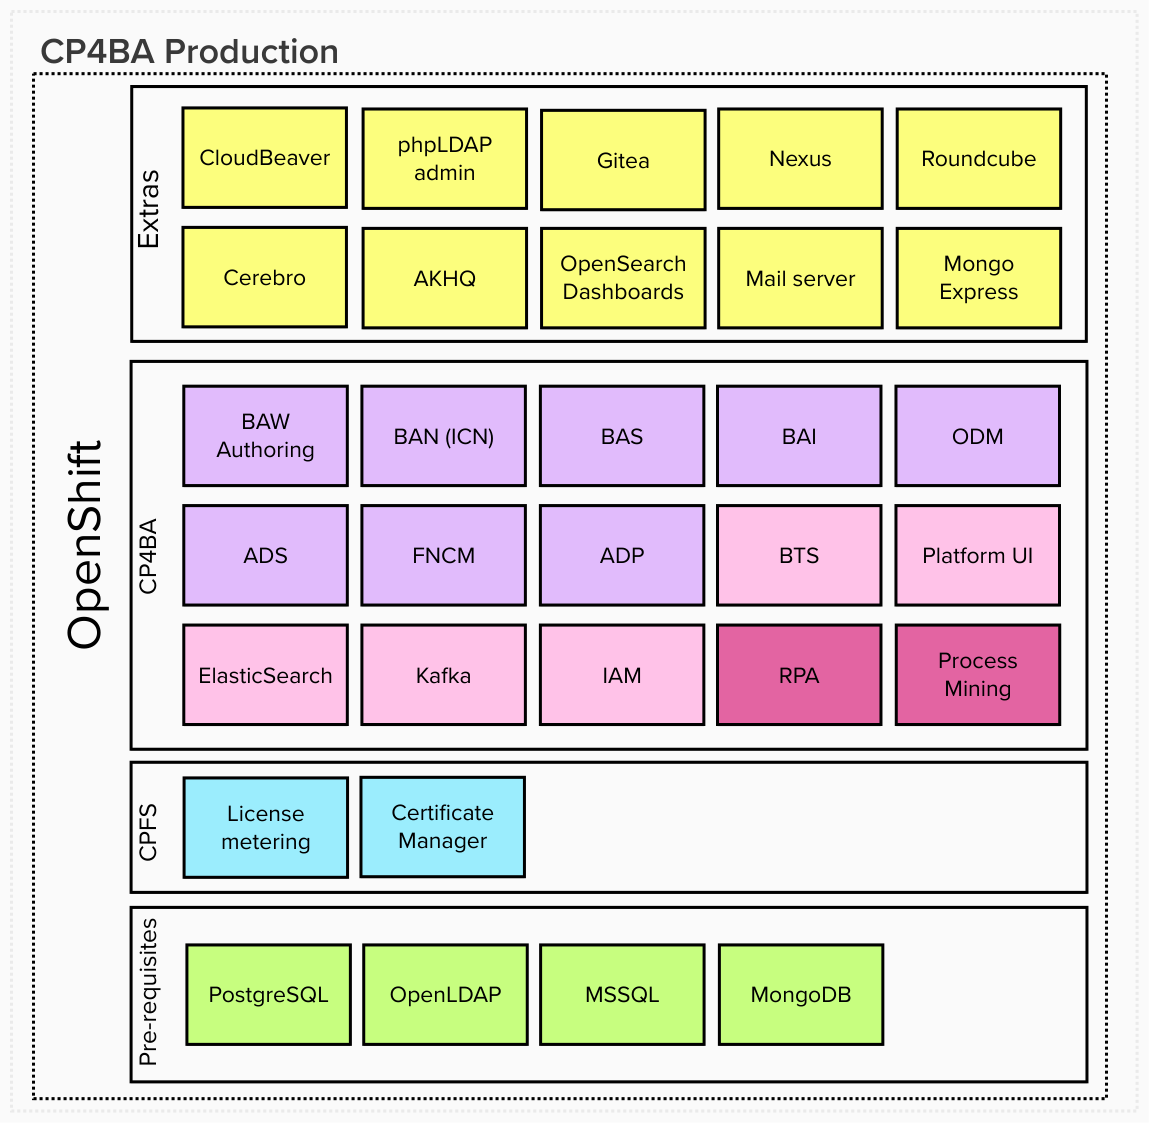
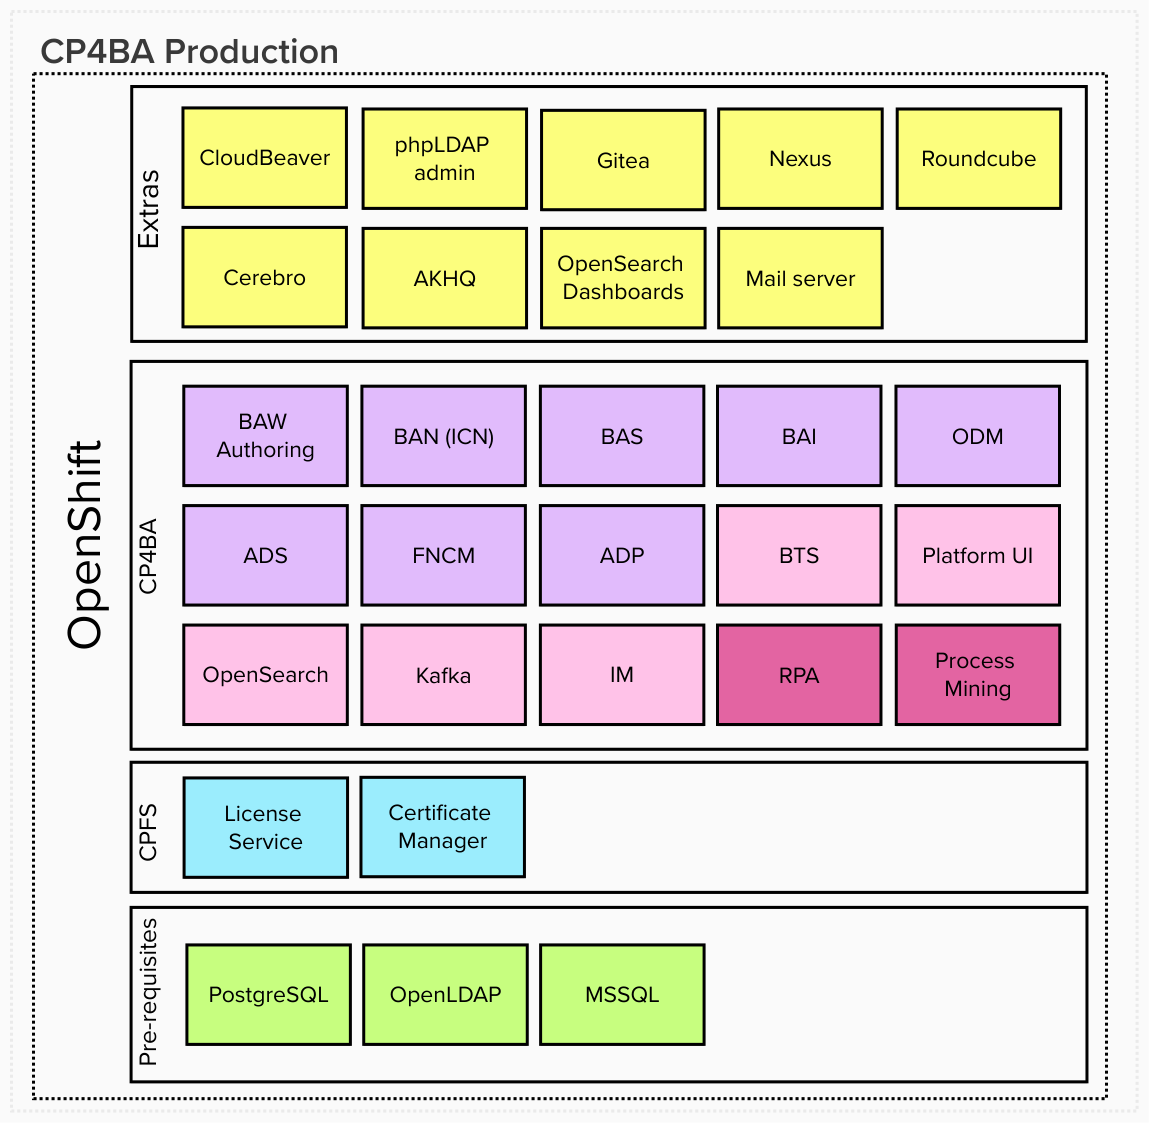
Update component diagram

diff --git a/docs/src/30-reference/configuration/cp4ba.md b/docs/src/30-reference/configuration/cp4ba.md
@@ -120,7 +120,7 @@ Contains services which are reused by Cloud Paks.
 
 More info available in official docs at https://www.ibm.com/docs/en/cpfs.
 
-- License metering - Tracks license usage.
+- License service - Tracks license usage.
 - Certificate Manager - Provides certificate handling.
 
 ### Pre-requisites section<!-- omit in toc -->
@@ -146,7 +146,7 @@ For your convenience the following post-deployment setup tasks have been automat
 - Zen - Users and Groups added.
 - Zen - Administrative group is given all available privileges from all pillars.
 - Zen - Regular groups are given developer privileges from all pillars.
-- Zen - Service account created in CPFS IAM and Zen and Zen API key is generated for convenient and stable usage.
+- Zen - Service account created in CPFS IM and Zen and Zen API key is generated for convenient and stable usage.
 - Zen - OCP Ingress certificate is used for better SSL trusting.
 - Workforce Insights - Connection setup. You just need to create WFI dashboard. https://www.ibm.com/docs/en/cloud-paks/cp-biz-automation/22.0.1?topic=secrets-creating-custom-bpc-workforce-secret
 - ADS - Nexus connection setup and all ADS plugins loaded.
